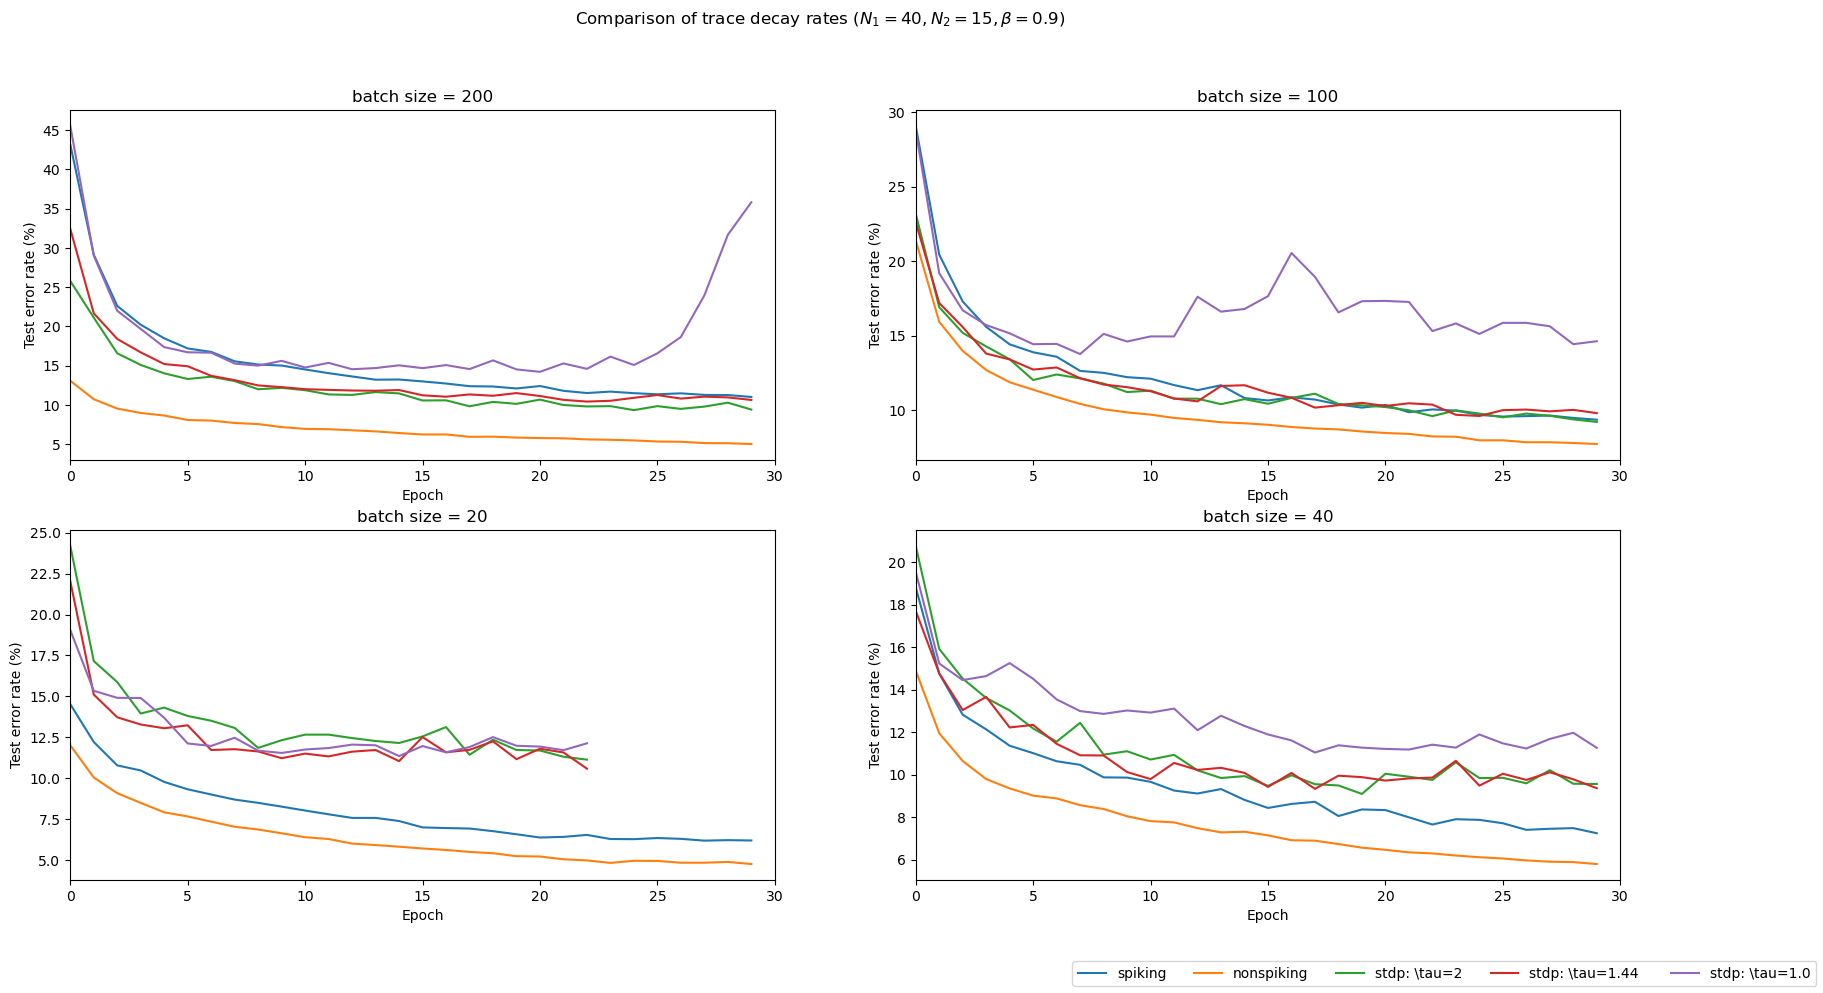
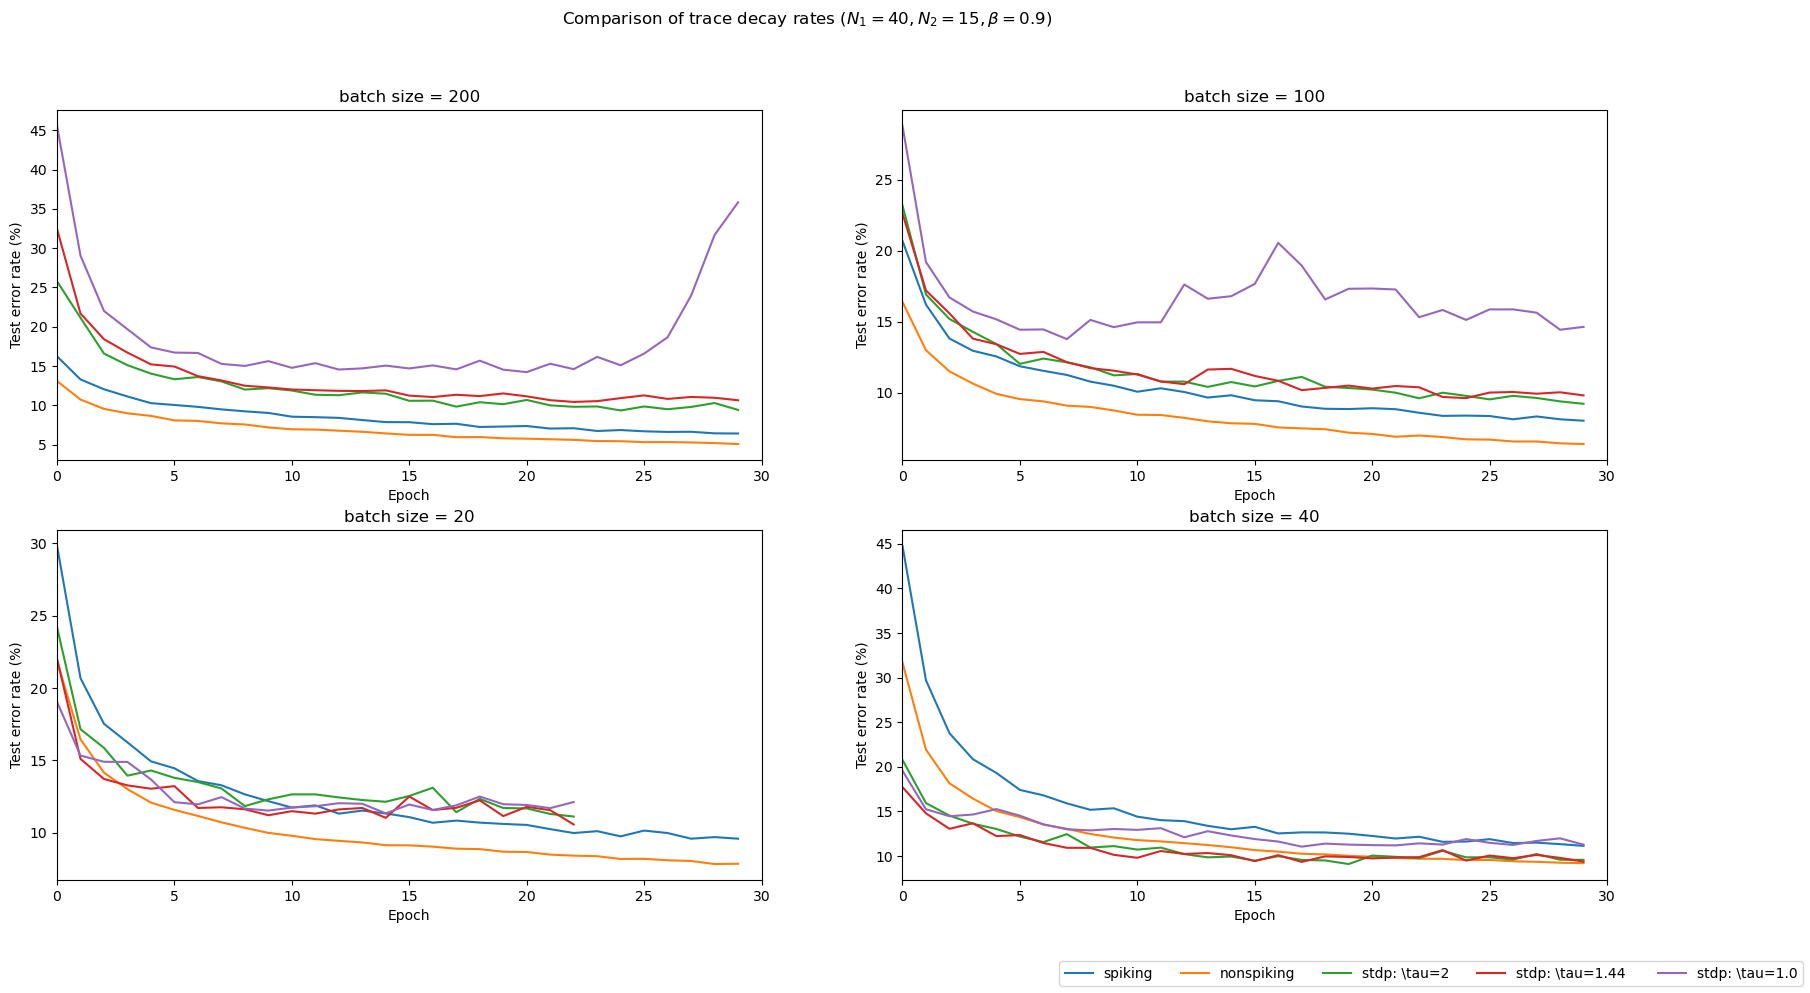
wip

diff --git a/graphUtil.py b/graphUtil.py
@@ -122,11 +122,11 @@ labels=['spiking',r'spiking stdp: \tau=2',r'spiking stdp: \tau=1.44 ',r'spiking 
 batch_size=[25,50,100,200]
 for i in [0,1,2,3]:
 
-    spiking_dir = 'skewsym_spiking_'+str(i)
+    spiking_dir = 'spiking_skewsym_'+str(i)
     spiking_stdp_slow_dir = 'spiking_stdp_slow_'+str(i)
     spiking_stdp_med_dir = 'spiking_stdp_med_'+str(i)
     spiking_stdp_fast_dir = 'spiking_stdp_fast_'+str(i)
-    nonspiking_dir = 'skewsym_nonspiking_'+str(i)
+    nonspiking_dir = 'nonspiking_skewsym_'+str(i)
     nonspiking_stdp_slow_dir = 'nonspiking_stdp_slow_'+str(i)
     nonspiking_stdp_med_dir = 'nonspiking_stdp_med_'+str(i)
     nonspiking_stdp_fast_dir = 'nonspiking_stdp_fast_'+str(i)
@@ -134,7 +134,7 @@ for i in [0,1,2,3]:
     spiking_train_error, spiking_test_error = csv2array(spiking_dir,skiplines=2)
     spiking_stdp_slow_train_error,spiking_stdp_slow_test_error = csv2array(spiking_stdp_slow_dir,skiplines=2)
     spiking_stdp_med_train_error,spiking_stdp_med_test_error = csv2array(spiking_stdp_med_dir,skiplines=2)
-    spiking_stdp_fast_train_error,spiking_stdp_fast_test_error = csv2array(stdp_fast_dir,skiplines=2)
+    spiking_stdp_fast_train_error,spiking_stdp_fast_test_error = csv2array(spiking_stdp_fast_dir,skiplines=2)
     nonspiking_train_error,nonspiking_test_error = csv2array(nonspiking_dir,skiplines=2)
     nonspiking_stdp_slow_train_error,nonspiking_stdp_slow_test_error = csv2array(nonspiking_stdp_slow_dir,skiplines=2)
     nonspiking_stdp_med_train_error,nonspiking_stdp_med_test_error = csv2array(nonspiking_stdp_med_dir,skiplines=2)
@@ -154,15 +154,15 @@ for i in [0,1,2,3]:
     ax[i//2,i%2].set_title('batch size = '+str(batch_size[i]))
 fig.suptitle(r"Comparison of trace decay rates ($N_1=40,N_2=15,\beta=0.9$)")
 fig.legend(labels, loc='lower right', ncol=len(labels), bbox_transform=fig.transFigure)
-fig.savefig('kernel_width_compare.png',bbox_inches="tight")
+fig.savefig('compare_all.png',bbox_inches="tight")
 
 
 fig, ax = plt.subplots(2,2,figsize=(20,10))
 labels=['spiking','nonspiking',r'stdp: \tau=2',r'stdp: \tau=1.44 ',r'stdp: \tau=1.0']
 batch_size=[200,100,20,40]
 for i in [0,1,2,3]:
-    spiking_dir = 'skewsym_spiking_'+str(i)
-    nonspiking_dir = 'skewsym_nonspiking_'+str(i)
+    spiking_dir = 'spiking_skewsym_'+str(i)
+    nonspiking_dir = 'nonspiking_skewsym_'+str(i)
     stdp_slow_dir = 'stdp_slow_'+str(i)
     stdp_med_dir = 'stdp_med_'+str(i)
     stdp_fast_dir = 'stdp_fast_'+str(i)
